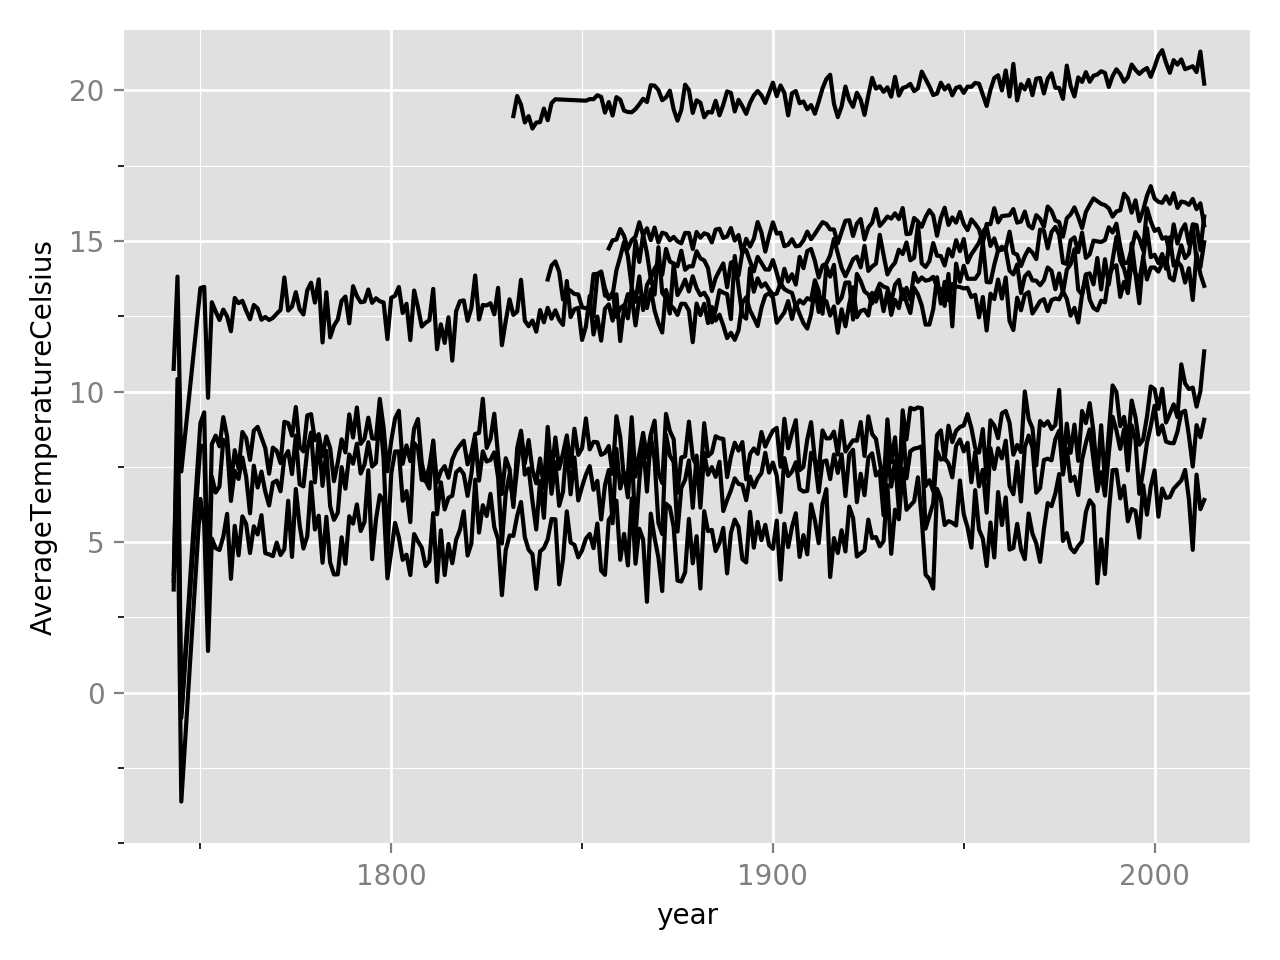
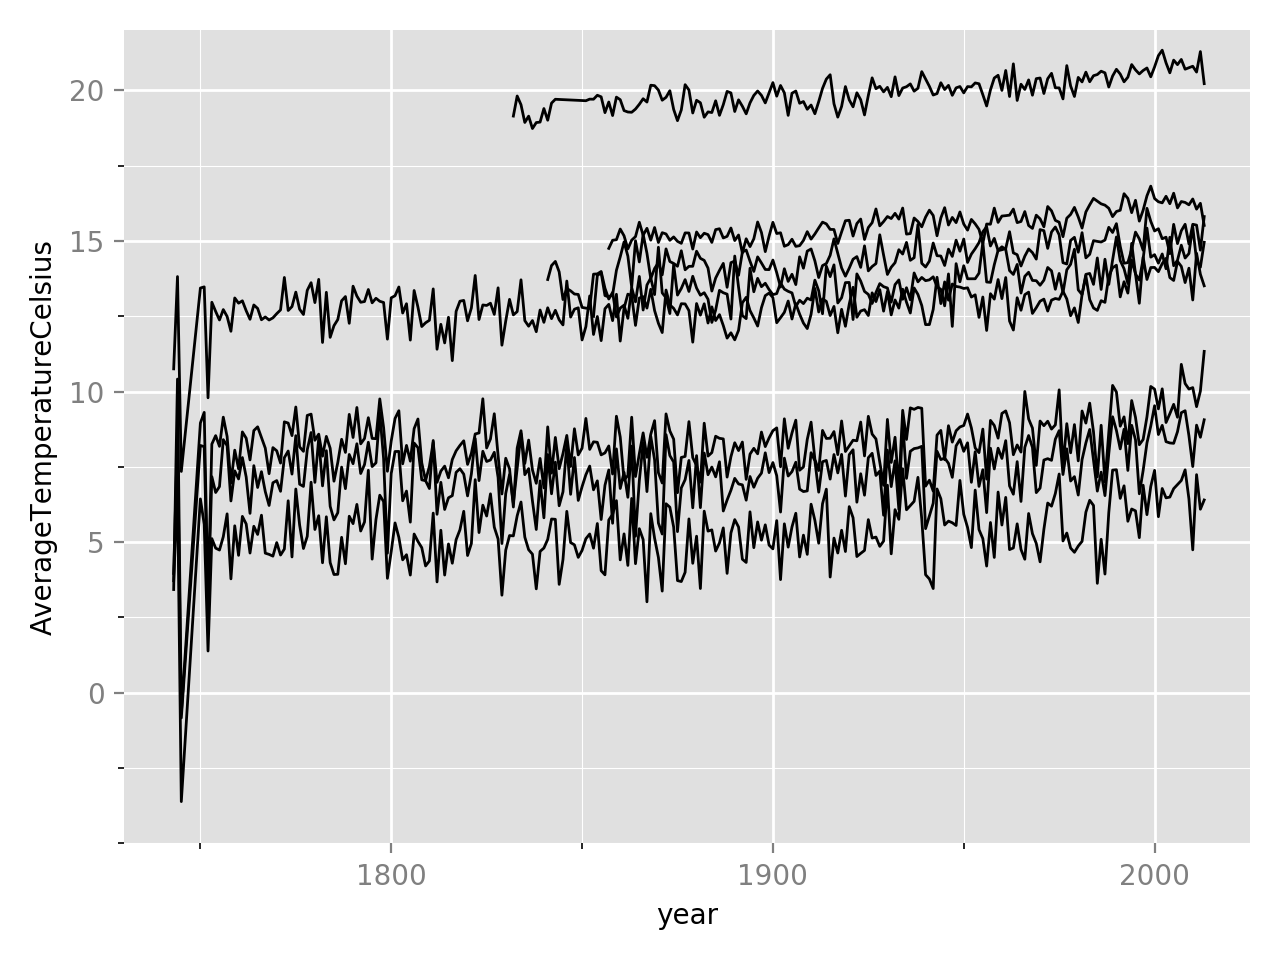
4b

Changed region(s): [[0.125, 0.1875, 0.9375, 0.7812], [0.4062, 0.0938, 0.6875, 0.125], [0.6875, 0.0625, 0.9375, 0.0938]]

diff --git a/plot_4b.py b/plot_4b.py
@@ -5,7 +5,7 @@ years, averages = import_data_4a()
 fig, ax = plot_axes_4()
 
 for i in range(len(averages)):
-    ax.plot(years[i], averages[i], color='black')
+    ax.plot(years[i], averages[i], color='black', linewidth=1)
 
 save_plot('4b')
 
